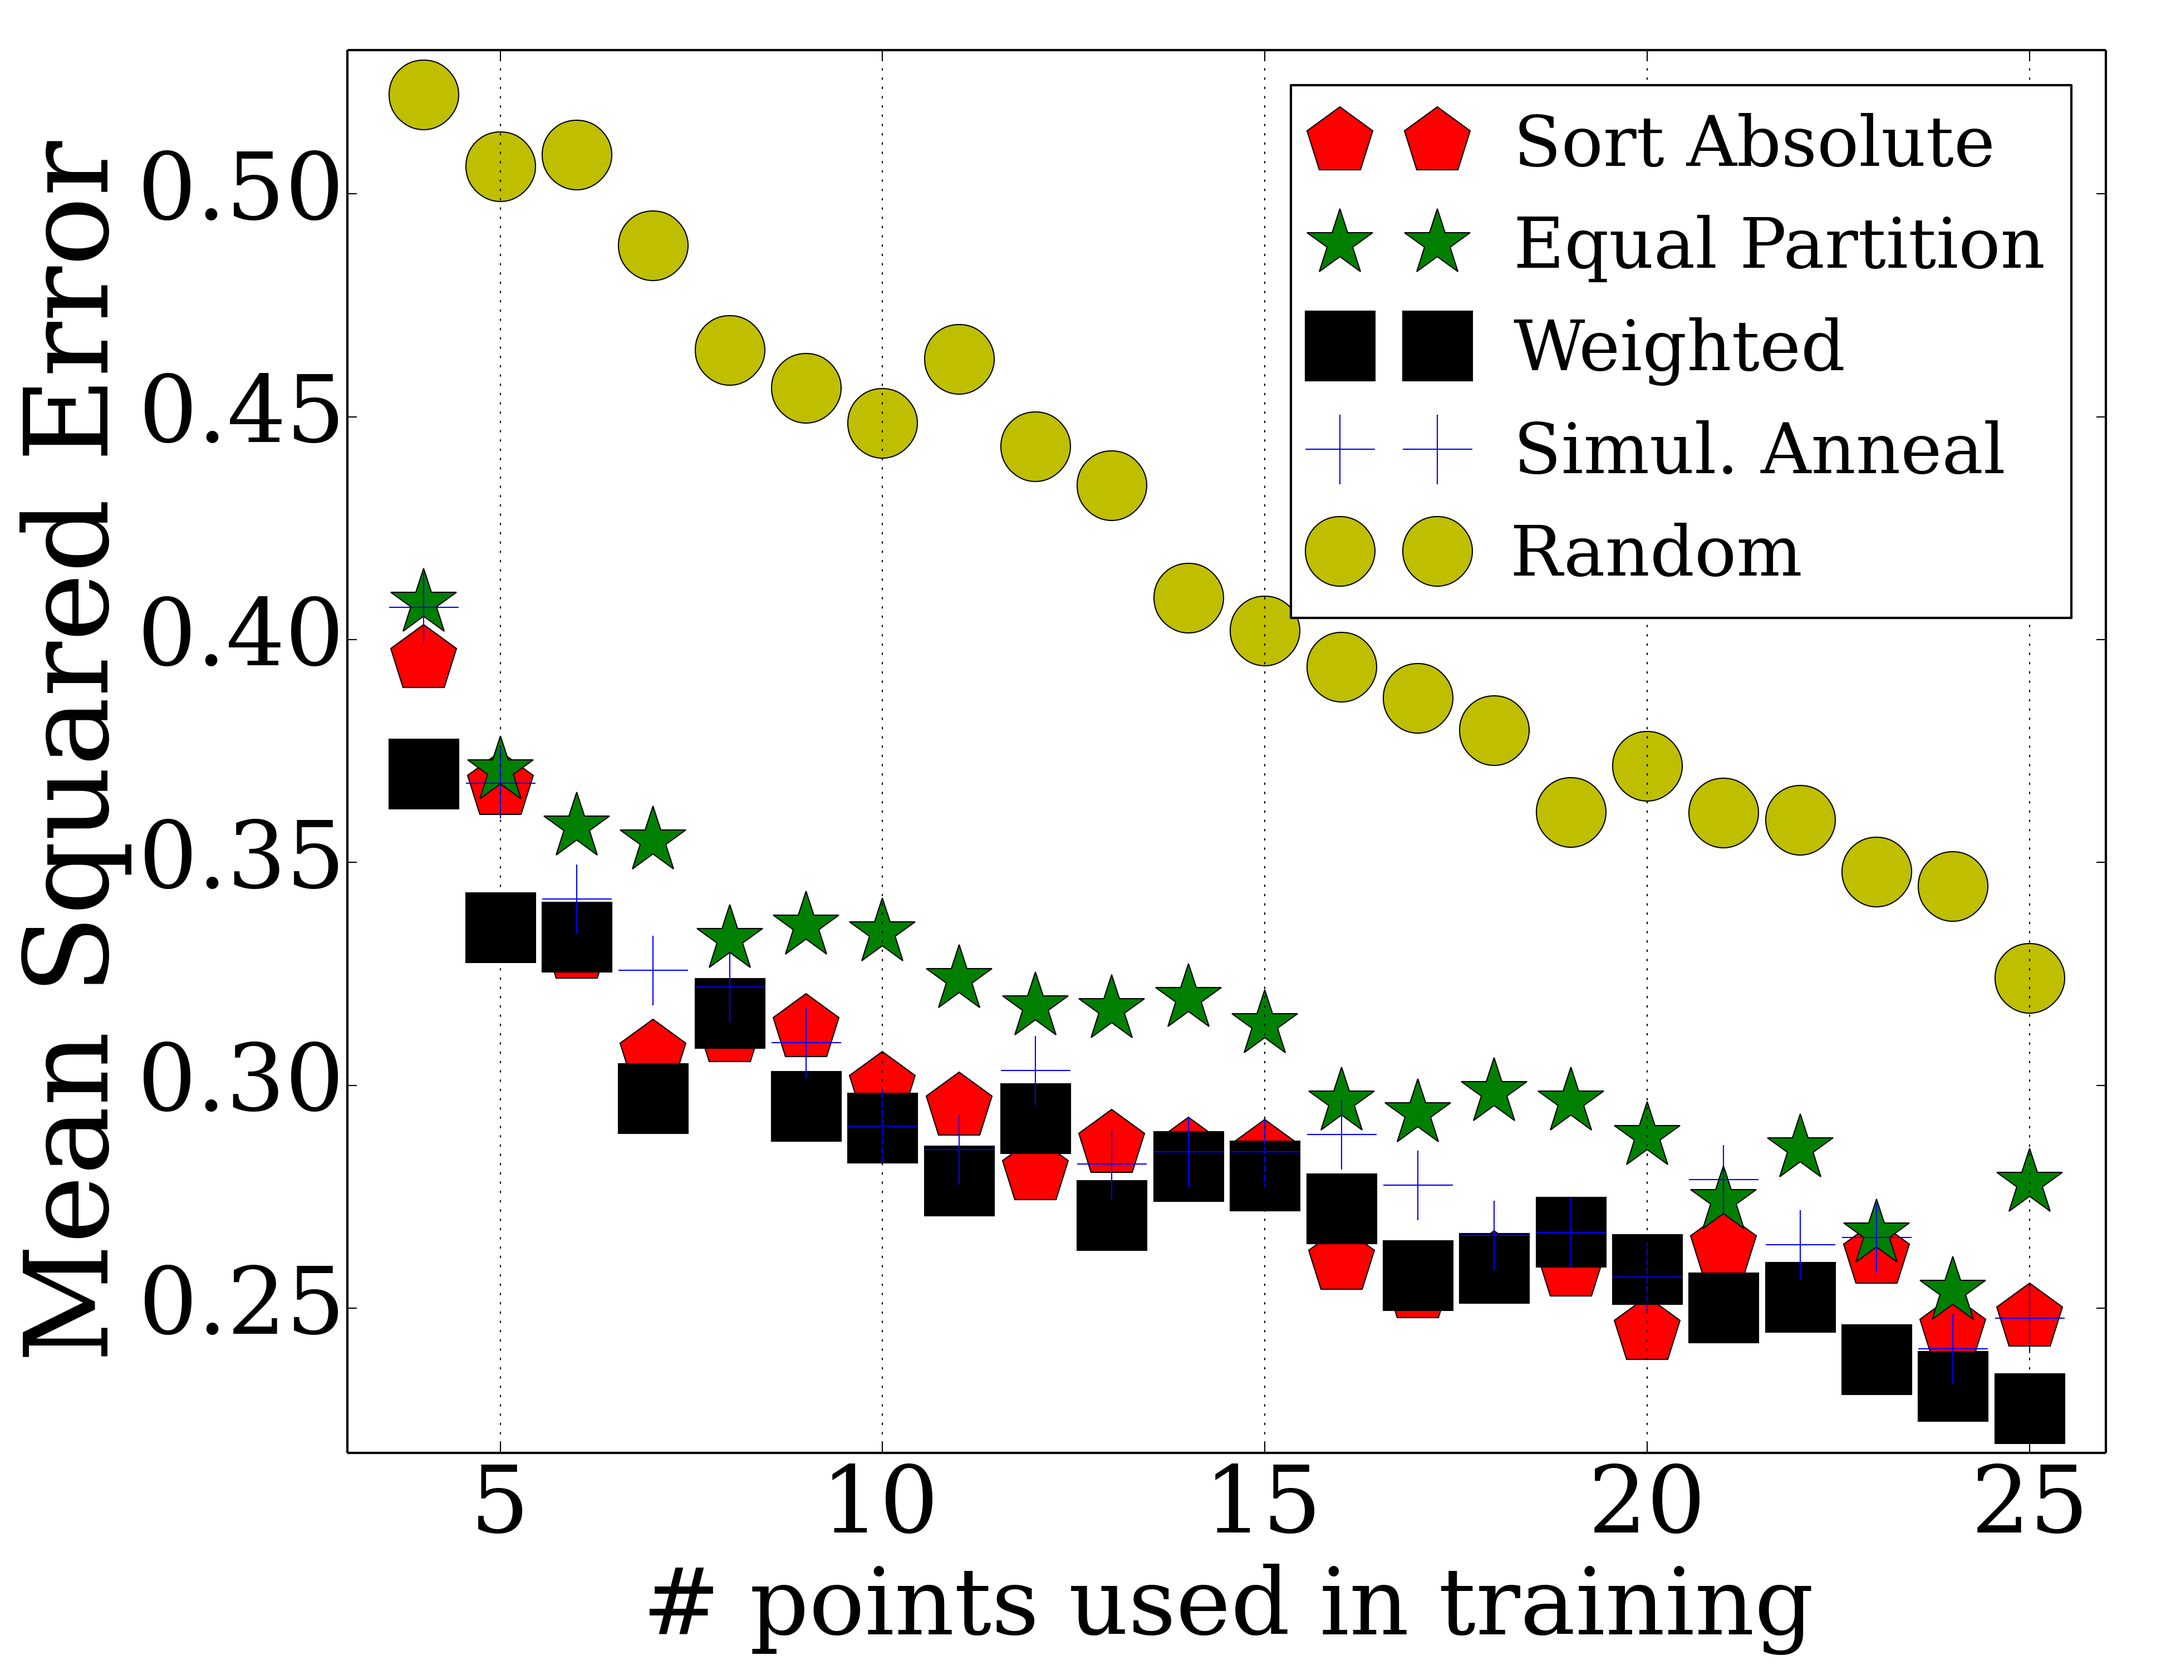
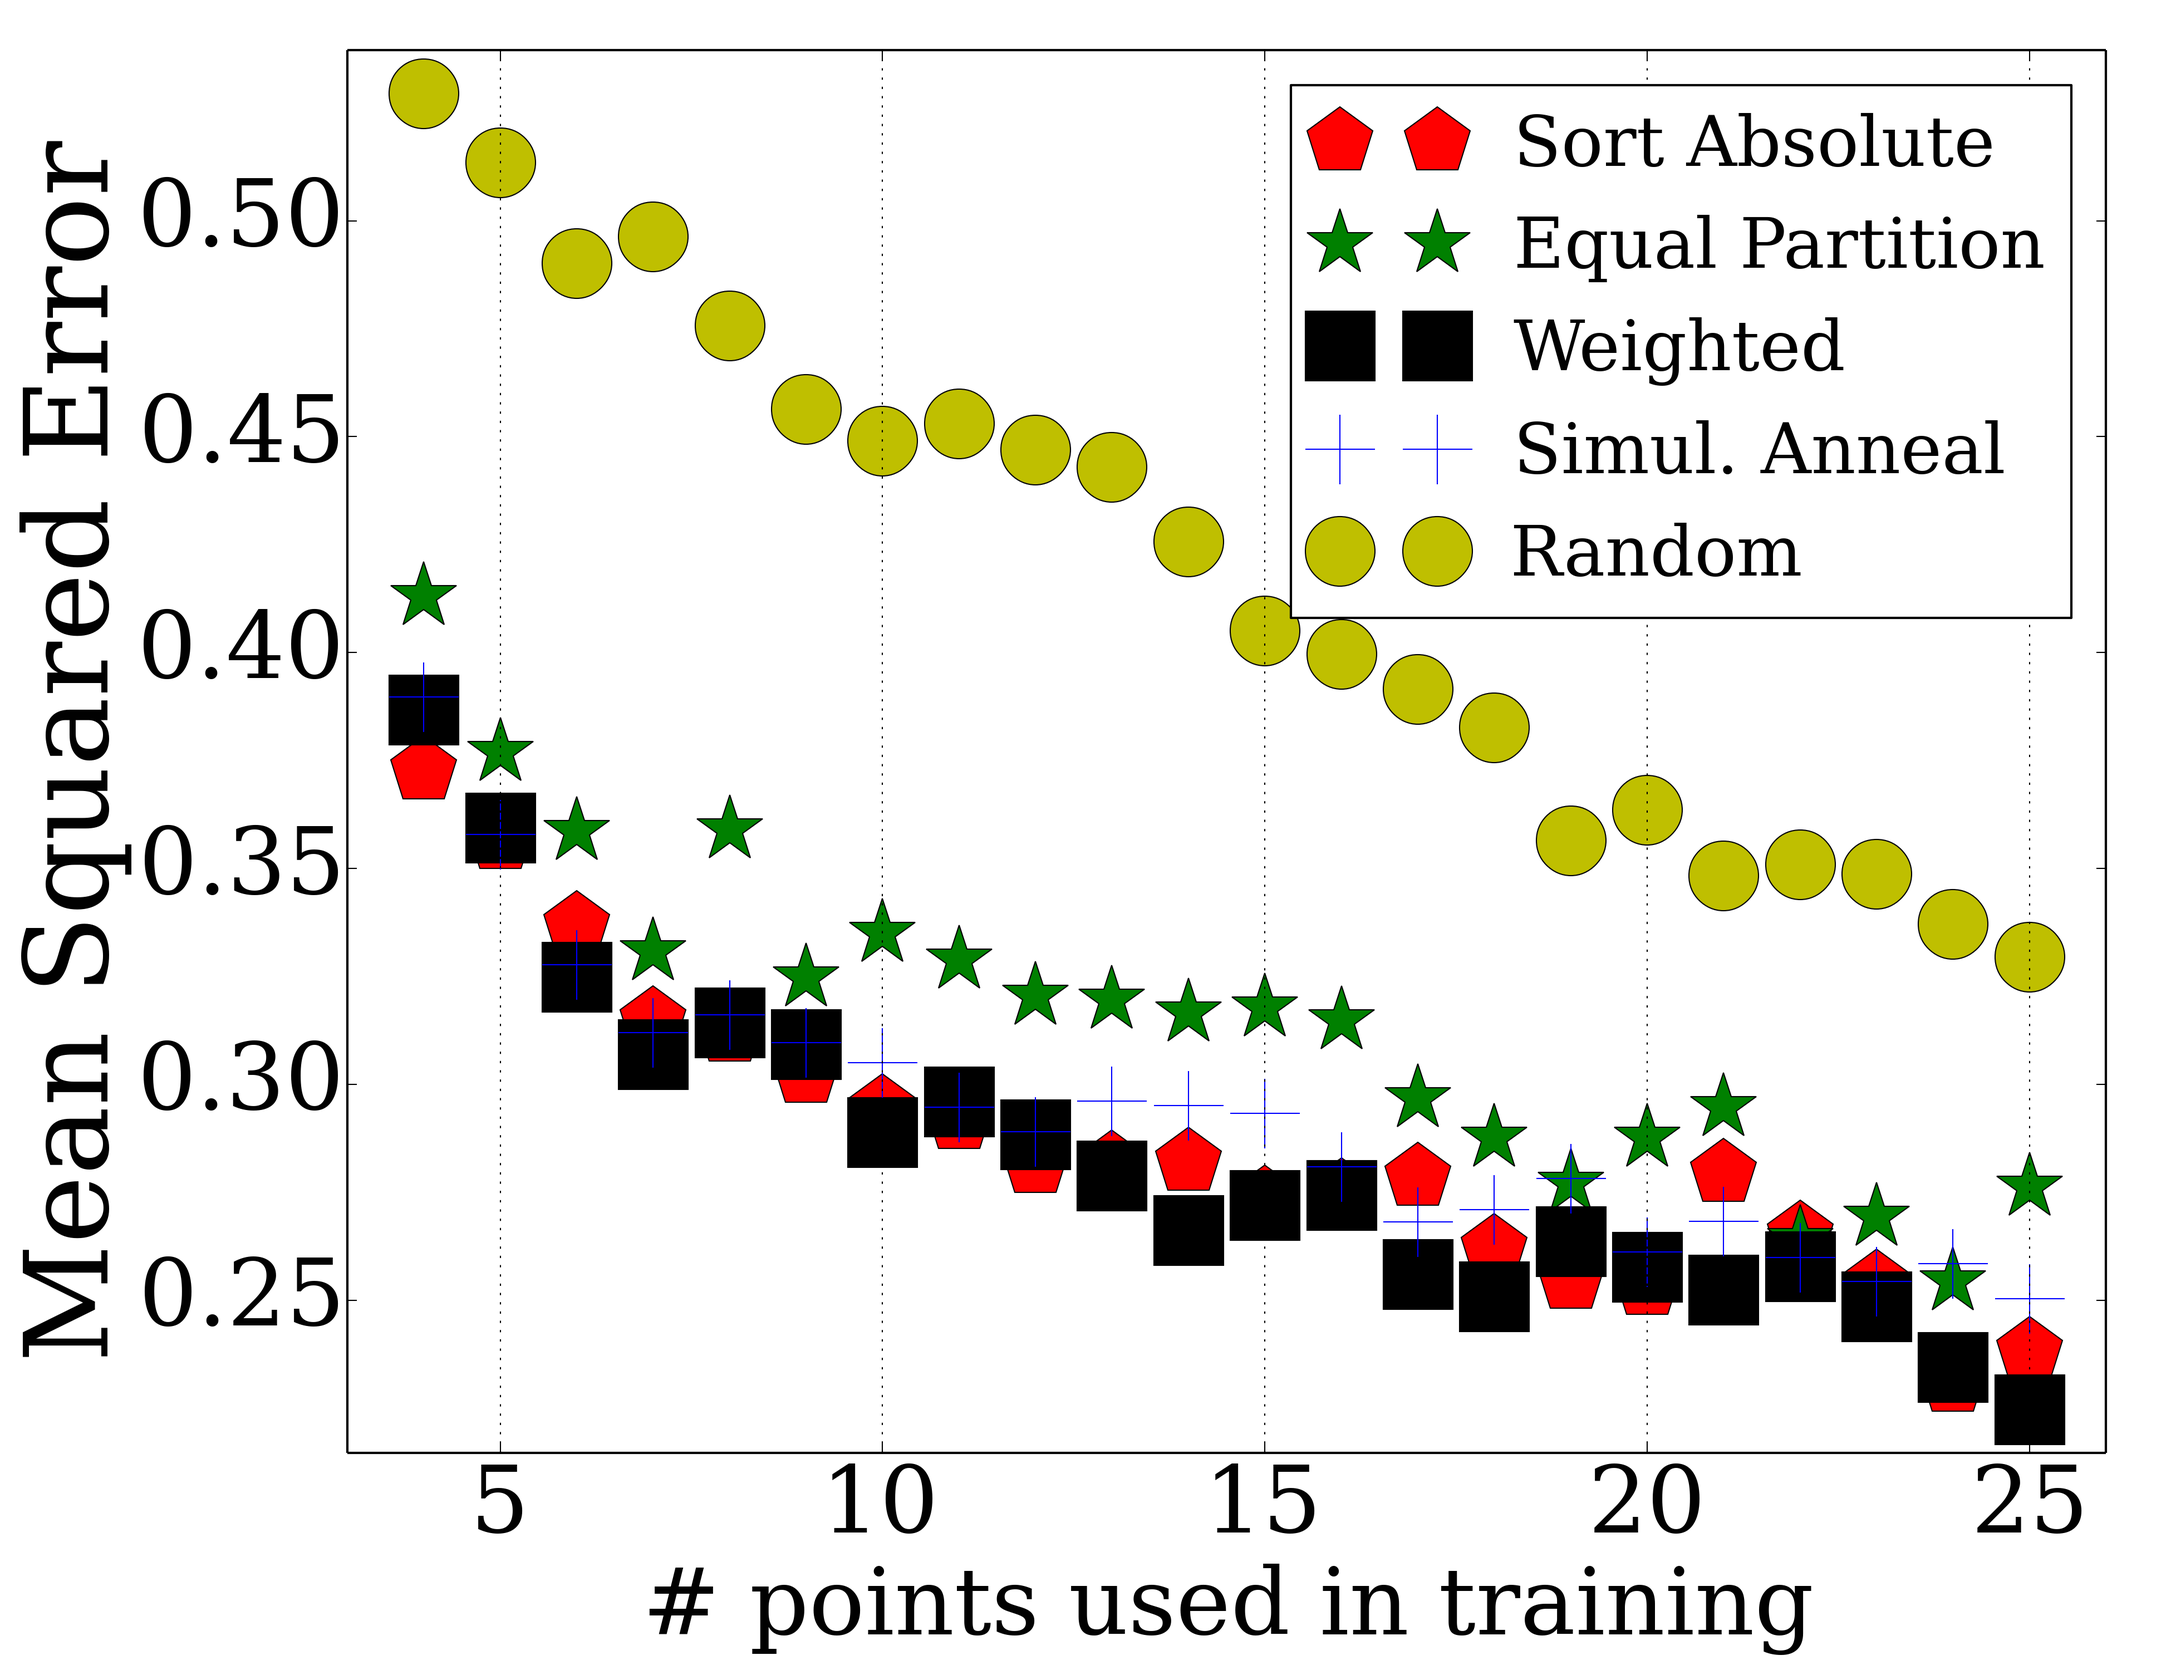
up

diff --git a/mirnadata/mirnareader.py b/mirnadata/mirnareader.py
@@ -93,7 +93,7 @@ def makeplotMain(xvals,yvaldictout,points,knots,gene,outspl,rempoints,remyvals,p
        rempoints,remyvals:
        plotpath:
     Returns:
-    """        
+    """
     plt.clf()
     plt.rc('font', family='serif', size=35)
     fig = matplotlib.pyplot.gcf()
@@ -112,7 +112,7 @@ def makeplotMain(xvals,yvaldictout,points,knots,gene,outspl,rempoints,remyvals,p
        plt.ylim(ymin,ymax)
     else:       
        ymax,ymin = max(yvals), min(yvals)
-       plt.ylim(ymin-0.5,ymax+0.1)
+       plt.ylim(ymin-0.5,ymax+0.25)
     plt.xlim(0.0,max(xvals)+0.5)
     locpos = 4
     xlabel = "Time"
@@ -131,8 +131,8 @@ def makeplotMain(xvals,yvaldictout,points,knots,gene,outspl,rempoints,remyvals,p
     plt.plot(knots,knotvals,marker=symmap["marker"]["Knots"],markersize=MARKERSIZE,linestyle='None',color=symmap["colors"]["Knots"],label=symmap["labels"]["Knots"])
     plt.plot(usetimes,outspl(usetimes),symmap["colors"]["spline"],lw=3,label=symmap["labels"]["spline"])
     plt.plot(rempoints,remyvals,marker='o',markersize=MARKERSIZE,linestyle='None',color='b',label='Rem. points')
-    plt.plot([0.5,7.0],triyvals[0:2],lw=3,color='y',label='Linear fit')
-    plt.plot([7.0,28.0],triyvals[1:],lw=3,color='y',label='Linear fit')
+    #plt.plot([0.5,7.0],triyvals[0:2],lw=3,color='y',label='Linear fit')
+    #plt.plot([7.0,28.0],triyvals[1:],lw=3,color='y',label='Linear fit')
      
     ax = plt.axes()        
     ax.xaxis.grid()  
@@ -283,20 +283,21 @@ def runGreedy(times,usedata,yvallist,count,weights,initmode="change"):
         assert len(globtimes) == len(usedata[cind].keys())
      usetimes = [ttime for tind,ttime in enumerate(times) for tind2 in xrange(len(usedata[0][ttime]))]
      yvallist = convertForm(times) #??
-
+        
     #fixedpoints = [0.5, 2.5, 5.0, 10.0, 26.0]
     #fixedpoints = [0.5, 5.5, 11.0 18.0, 28.0]
     #fixedpoints = [0.5, 1.5, 2.5, 3.5, 4.5, 5.5, 6.5, 7.5, 8.5, 10.0, 11.0, 12.0, 13.0, 14.0, 16.0, 18.0, 20.0, 22.0, 24.0, 26.0, 28.0]
     fixedpoints = [0.5, 1.5, 2.5, 5.0, 7.0, 10.0, 15.0, 19.0, 28.0]
 
-    fixedpoints = [0.5, 1.5, 2.5, 3.0, 4.5, 6.0, 7.5, 8.5, 9.5, 10.0, 12.5, 18.0, 24.0, 28.0]
-    
+    #fixedpoints = [0.5, 1.5, 2.5, 3.0, 4.5, 6.0, 7.5, 8.5, 9.5, 10.0, 12.5, 18.0, 24.0, 28.0]
+
+    fixedpoints = [0.5, 1.0, 1.5, 3.0, 4.0, 7.0, 7.5, 9.0, 9.5, 12.5, 15.0, 21.0, 28.0]
     #fixedpoints = [0.5,28.0]
     #fixedpoints = [0.5,7.0,28.0]
 
-    reglambda = 75.0
-    if False:
-       reglambda = 75.0 #1.0 #50.0 #1.0
+    reglambda = 30.0
+    if True:
+       reglambda = 30.0 #1.0 #50.0 #1.0
        avgyvallist = []
        for cind,cdata in enumerate(usedata):
            cavgdata = [np.median(list(usedata[cind][ttime])) for tind,ttime in enumerate(times)]
@@ -311,7 +312,7 @@ def runGreedy(times,usedata,yvallist,count,weights,initmode="change"):
            if avgchange.has_key(fixedpoint):
               del avgchange[fixedpoint]  
        points = [ttime[0] for ttime in sorted(avgchange.items(), key=lambda x: x[1], reverse=True)][0:count-2]
-       
+
        points = fixedpoints + points
        points = sorted(points)
        #multipoints = [point for point in points for tind2 in xrange(len(usedata[0][point]))]
@@ -387,8 +388,10 @@ def runGreedy(times,usedata,yvallist,count,weights,initmode="change"):
        
        #points = [0.5, 1.0, 3.0, 5.0, 7.0, 7.5, 8.5, 10.0, 11.0, 13.5, 19.0, 22.0, 28.0]
        #points = [0.5,1.0, 3.0, 5.0, 7.0, 7.5, 8.5, 10.0, 11.0, 14.0, 19.0, 22.0,28.0]
-       points = [0.5, 1.0, 1.5, 2.5, 3.0, 4.5, 6.0, 7.5, 8.5, 9.5, 10.0, 12.5, 18.0, 24.0, 28.0]
+       #points = [0.5, 1.0, 1.5, 2.5, 3.0, 4.5, 6.0, 7.5, 8.5, 9.5, 10.0, 12.5, 18.0, 24.0, 28.0]
+       points = [0.5, 1.0, 1.5, 3.0, 4.0, 7.0, 7.5, 9.0, 9.5, 12.5, 15.0, 21.0, 28.0]
        rempoints = list(set(times) - set(points))
+       yvals = [[yvallist[yind][mapval[tpoint]] for tpoint in points] for yind in xrange(len(yvallist))]
        tsumval = 0.0
        y2knots = []
        outsplines = []
@@ -403,7 +406,7 @@ def runGreedy(times,usedata,yvallist,count,weights,initmode="change"):
        print sumval/float(len(yvallist)*(len(times)-count))
        print tsumval/float(len(yvallist)*(len(times)-count))
        #exit(1)
-    
+
        #assert abs(tsumval-sumval) < 0.0001     
        avgsum=0.0
        for yind in xrange(len(y2knots)):
@@ -419,7 +422,7 @@ def runGreedy(times,usedata,yvallist,count,weights,initmode="change"):
     x2val = [{tval:yvallist[yind][tind] for tind,tval in enumerate(times)} for yind in xrange(len(yvallist))]
     x2valblock = [{tval:list(usedata[yind][tval]) for tind,tval in enumerate(times)} for yind in xrange(len(yvallist))]
     yvals = [[yvallist[yind][mapval[tpoint]] for tpoint in fixedpoints] for yind in xrange(len(yvallist))]
-    reglambda = 7.5 #1.0 #50.0 #1.0
+    reglambda = 75.0 #1.0 #50.0 #1.0
     #1.0 -> 805
     y2knots = []
     outsplines = []
@@ -437,7 +440,7 @@ def runGreedy(times,usedata,yvallist,count,weights,initmode="change"):
     #userempoints = rempoints
     allvals = [selpoints for selpoints in itertools.combinations(userempoints, count-2)]
 
-    reglambda = 10.0
+    reglambda = 50.0
     fixedpoints = [0.5, 1.5, 2.5, 3.0, 4.5, 6.0, 7.5, 8.5, 9.5, 10.0, 12.5, 18.0, 24.0, 28.0]
     allvals = [[1.0]]
     sol2val = {}
@@ -1278,7 +1281,7 @@ elif weightmode == "uni":
 for count in xrange(6,31):
     sumval, avgsumval, points, yvals, y2knots, outsplines = runGreedy(usetimes,modusedata,yvallist,count,weights,inittype)
     rempoints = list(set(usetimes) - set(points))
-        
+     
     print "selected points are: "       
     print points
     
@@ -1349,17 +1352,21 @@ for count in xrange(6,31):
         remyvals = [x2val[gind][rpoint] for rpoint in rempoints]
         gene = gene2ind[gind]
         plotpath = "{0}/{1}/{2}_{3}".format(plotfolder,weightmode,gene.replace("/",","),len(points))
-        print plotpath   
-        if os.path.exists(plotpath):
+        print plotpath
+        if os.path.exists(plotpath+".png"):
+           print "not writing" 
            continue
 
         trixvals = [0.5,7.0,28.0]
         triyvals = [yvallist[gind][mapval[trixval]] for trixval in trixvals]
+
+        if len(y2knots[gind]) > 4:
+           continue 
         makeplotMain(usetimes,yvaldictout,points,y2knots[gind],gene,outsplines[gind],rempoints,remyvals,plotpath,usetimes,trixvals,triyvals)
         #makeplotMain(usetimes,yvaldictout,points,y2knots[gind],gene,outsplines[gind],rempoints,remyvals,plotpath,usetimes,(min(collects),max(collects)))
            
         allplotpath = "{0}/{1}_{2}_all".format(plotfolder,gene.replace("/",","),len(points))
-        if os.path.exists(allplotpath):
+        if os.path.exists(allplotpath+".png"):
            continue 
         if foundlambda != None:
            makeplotMainAll(usetimes,yvaldictout,points,y2knots[gind],gene,outsplines[gind],rempoints,remyvals,allplotpath,foundknots,foundspl,usetimes,trixvals,triyvals)
